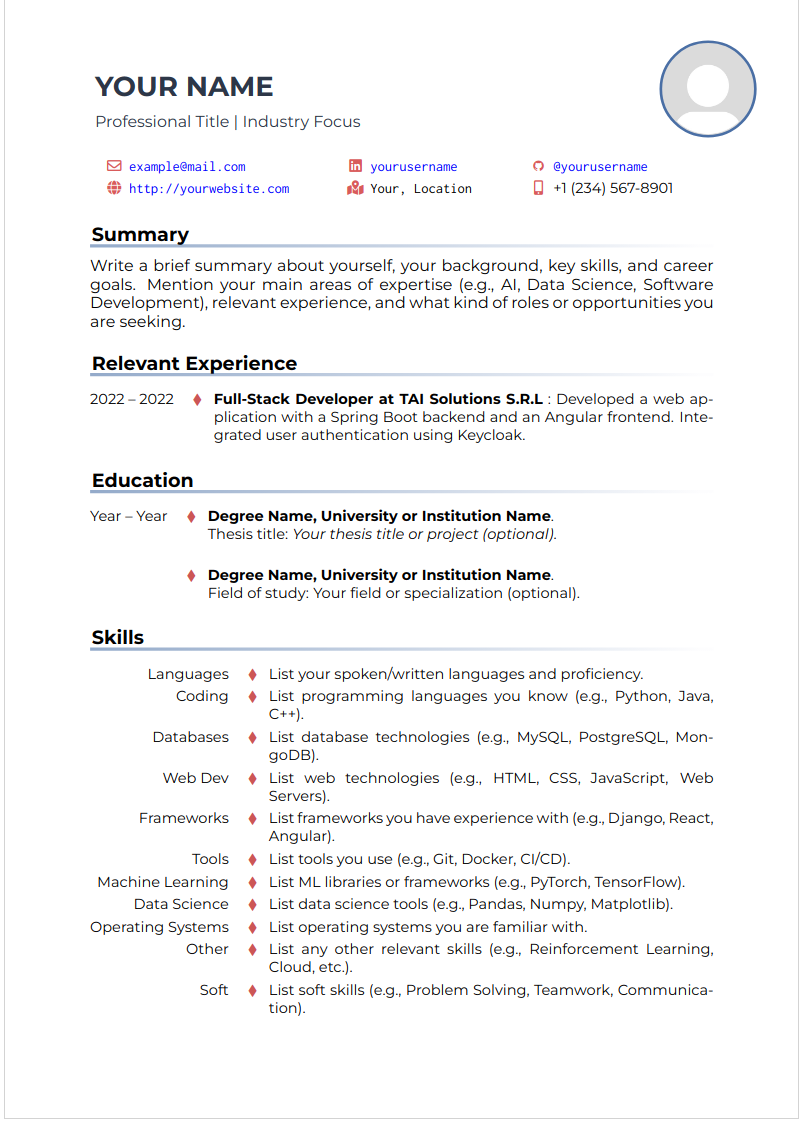
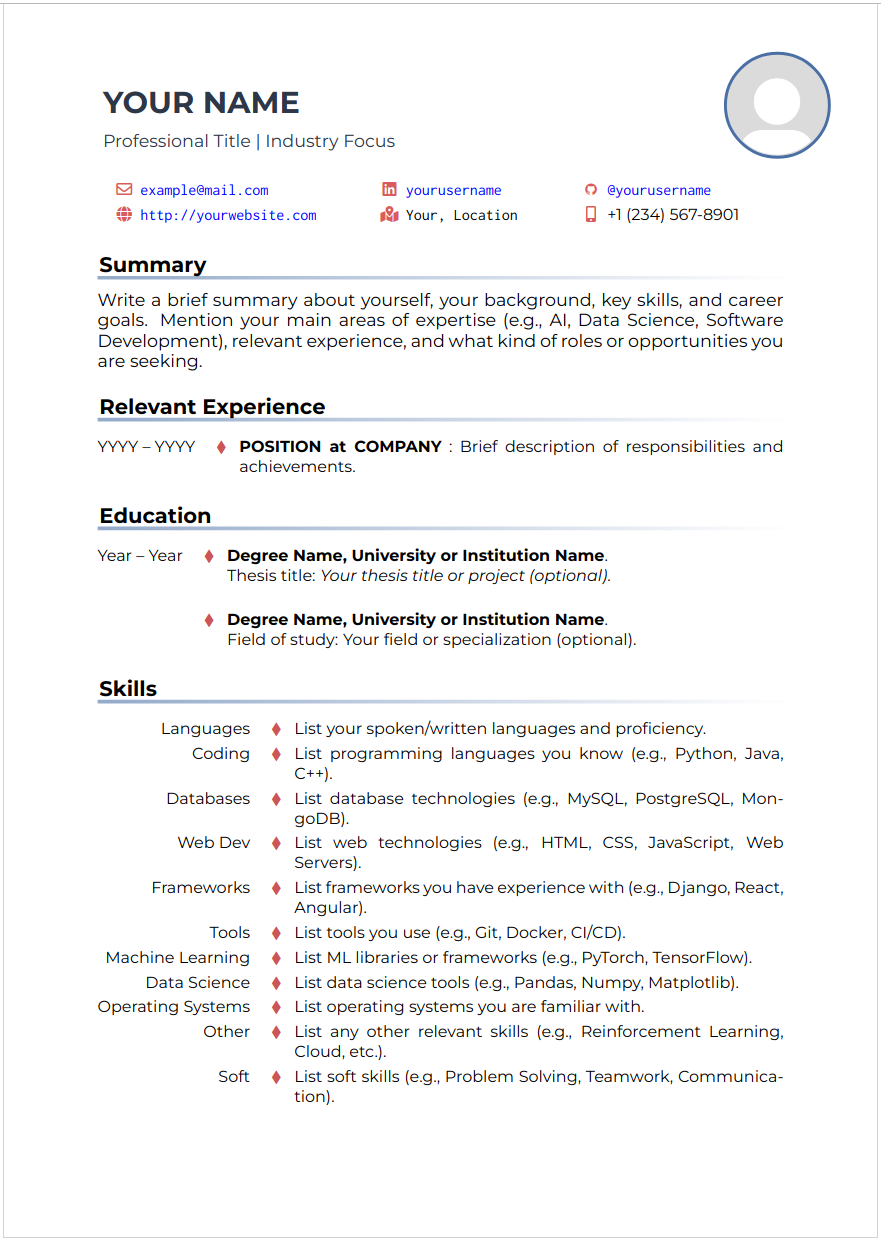
updated

diff --git a/employment.tex b/employment.tex
@@ -1,5 +1,14 @@
 \begin{rubric}{Relevant Experience}
-\entry*[2022 -- 2022]%
-	\textbf{Full-Stack Developer at TAI Solutions S.R.L} : Developed a web application with a Spring Boot backend and an Angular frontend. Integrated user authentication using Keycloak.
+% EMPLOYMENT ENTRY TEMPLATE
+% Format: \entry*[START_YEAR -- END_YEAR]% 
+%         \textbf{POSITION at COMPANY} : DESCRIPTION
+%
+% Example entry:
+\entry*[YYYY -- YYYY]%
+	\textbf{POSITION at COMPANY} : Brief description of responsibilities and achievements.
+%
+% Uncomment and customize the example below or create new entries following the format
+% \entry*[2022 -- 2022]%
+% 	\textbf{Full-Stack Developer at TAI Solutions S.R.L} : Developed a web application with a Spring Boot backend and an Angular frontend. Integrated user authentication using Keycloak.
 %
 \end{rubric}
